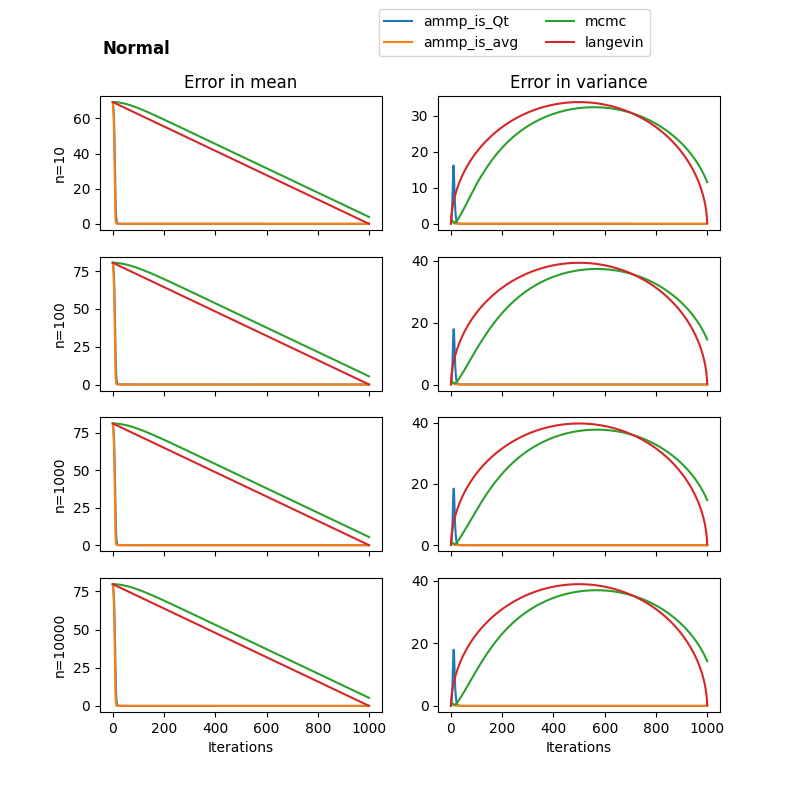
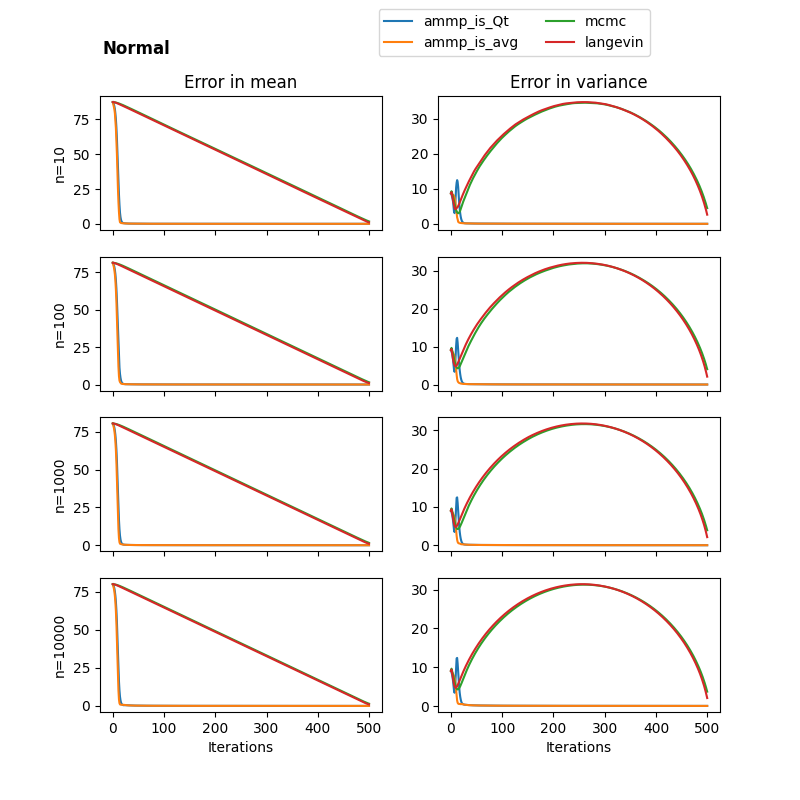
tidied results

diff --git a/examples/ammpis_numpy/experiments.py b/examples/ammpis_numpy/experiments.py
@@ -12,9 +12,9 @@ t.manual_seed(0)
 t.cuda.manual_seed(0)
 
 if __name__ == "__main__":
-    num_runs = 5
+    num_runs = 3
 
-    num_iters = 1000 # mcmc seems to require about 1000 iterations to converge
+    num_iters = 500 # mcmc and lang seem to require about 1000 iterations to converge
     
     num_latents = [10, 100, 1000, 10000]
     
@@ -32,13 +32,13 @@ if __name__ == "__main__":
     for run in range(num_runs):
         for post in posteriors:
             for n in num_latents:
-                print(f"run: {run}, post: {post}, n: {n}")
+                print(f"run: {run}, post: {post}, n: {n}", end="\t")
             
                 init = t.tensor([0.0,1.0], dtype=t.float64).repeat((n,1))
 
                 # priors on posterior parameters
                 loc = Normal(0,100).sample((n,1)).float()
-                scale = Normal(0,0.1).sample((n,1)).exp().float()
+                scale = Normal(0,0.1).sample((n,1)).exp().float() * 10
 
                 post_dist = posteriors[post](loc.squeeze(), scale.squeeze())
                 true_post = t.cat([post_dist.mean.unsqueeze(1), post_dist.stddev.unsqueeze(1)], dim=1)
@@ -53,8 +53,10 @@ if __name__ == "__main__":
                 mcmc_post = [fit_approx_post(m) for m in m_mcmc]
 
                 # langevin (mala)
-                m_lang, lang_acceptance_rate, lang_times = am(num_iters, post_dist, init, 2.4*post_dist.stddev.unsqueeze(1), burn_in=0)#num_iters//10)
+                m_lang, lang_acceptance_rate, lang_times = lang(num_iters, post_dist, init, 2.4*post_dist.stddev.unsqueeze(1), burn_in=0)#num_iters//10)
                 lang_post = [fit_approx_post(m) for m in m_lang]
+
+                print(f"Acceptance rates: mcmc={mcmc_acceptance_rate},\t lang={lang_acceptance_rate}")
 
                 # calculate errors
                 for i in range(num_iters+1):

diff --git a/examples/ammpis_numpy/ammpis.py b/examples/ammpis_numpy/ammpis.py
@@ -168,7 +168,7 @@ def mcmc(T, post, init, proposal_scale, burn_in=100):
 
     return moments, acceptance_rates.mean().item(), times
 
-def am(T, post, init, proposal_scale, burn_in=100):
+def lang(T, post, init, proposal_scale, burn_in=100):
     if type(proposal_scale) in (float, int):
         proposal_scale = proposal_scale*t.ones(num_latents, 1)
 
@@ -277,8 +277,11 @@ if __name__ == "__main__":
     
     m_mcmc, mcmc_acceptance_rate, mcmc_times = mcmc(1000, post_dist, init, 2.4*scale, burn_in=100)
     mean_errs_mcmc, var_errs_mcmc = get_errs(m_mcmc, post)
+    print("MCMC acceptance rate: ", mcmc_acceptance_rate)  # should be 0.44 for Gaussian posterior
 
-    print("MCMC acceptance rate: ", mcmc_acceptance_rate)
+
+    m_lang, lang_acceptance_rate, lang_times = lang(1000, post_dist, init, 2.4*scale, burn_in=100)
+    print("Lang acceptance rate: ", lang_acceptance_rate)  # should be 0.574 for Gaussian posterior
 
     #Posterior mean and scale error
     print("Posterior mean error: ", (post[:,0] - fit_approx_post(m_q[-1])[:,0]).abs().mean())
@@ -287,6 +290,10 @@ if __name__ == "__main__":
     print("MCMC mean error: ", (post[:,0] - fit_approx_post(m_mcmc[-1])[:,0]).abs().mean())
     print("MCMC scale error: ", (post[:,1] - fit_approx_post(m_mcmc[-1])[:,1]).abs().mean())
 
+    print("Lang mean error: ", (post[:,0] - fit_approx_post(m_lang[-1])[:,0]).abs().mean())
+    print("Lang scale error: ", (post[:,1] - fit_approx_post(m_lang[-1])[:,1]).abs().mean())
+
+    # breakpoint()
 
     print('Mean')
     print(post[:,0])
